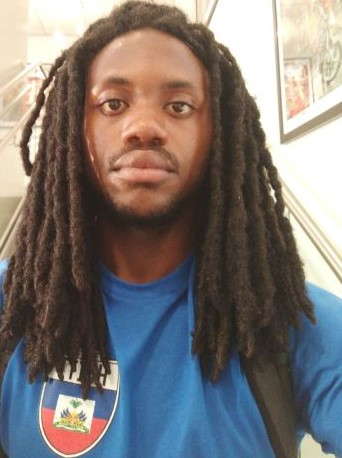
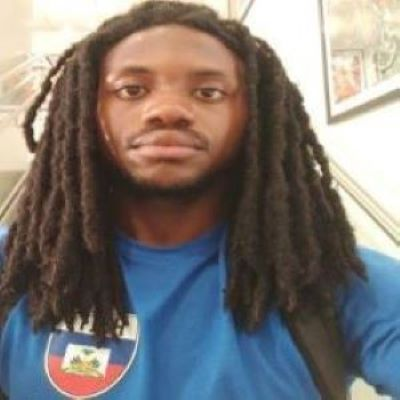
Updates

diff --git a/contact.html b/contact.html
@@ -4,77 +4,77 @@
         <meta charset="UTF-8" />
         <meta name="viewport" content="width=device-width, initial-scale=1.0" />
         <meta http-equiv="X-UA-Compatible" content="ie=edge" />
-        <script src="https://kit.fontawesome.com/323386b184.js" crossorigin="anonymous"></script>
+        <script
+            src="https://kit.fontawesome.com/323386b184.js"
+            crossorigin="anonymous"
+        ></script>
         <link rel="stylesheet" href="css/main.css" />
         <title>Contact Me</title>
     </head>
-    <body >
-        
-       <header>
-           <div class="menu-btn">
-               <div class="btn-line"></div>
-               <div class="btn-line"></div>
-               <div class="btn-line"></div>
-           </div>
-
-           <nav class="menu">
-               <div class="menu-branding">
-                <div class="portrait"></div>
-               </div>
-               <ul class="menu-nav">
-                <li class="nav-item ">
-                    <a href="index.html" class="nav-link">
-                        Home
-                    </a>
-                </li>
-                <li class="nav-item ">
-                    <a href="about.html" class="nav-link">
-                        About Me
-                    </a>
-                </li>
-                <li class="nav-item ">
-                    <a href="work.html" class="nav-link">
-                        My Work
-                    </a>
-                </li>
-                <li class="nav-item current">
-                    <a href="contact.html" class="nav-link">
-                        How to Reach Me
-                    </a>
-                </li>
-               </ul>
-           </nav>
-       </header>
-
-       <main id="contact">
-        <h1 class="lg-heading">
-            Contact <span class="text-secondary">Me</span>
-        </h1>
-        <h2 class="sm-heading">
-           This is how you can reach me
-        </h2>
-        <div class="boxes">
-            <div class="">
-                <span class="text-secondary">
-                    Email:
-                </span>
-                johnDoe@fiu.edu
+    <body>
+        <header>
+            <div class="menu-btn">
+                <div class="btn-line"></div>
+                <div class="btn-line"></div>
+                <div class="btn-line"></div>
             </div>
-            <div class="">
-                <span class="text-secondary">
-                    Phone:
-                </span>
-                (555) 555-5555
+
+            <nav class="menu">
+                <div class="menu-branding">
+                    <div class="portrait"></div>
+                </div>
+                <ul class="menu-nav">
+                    <li class="nav-item ">
+                        <a href="index.html" class="nav-link">
+                            Home
+                        </a>
+                    </li>
+                    <li class="nav-item ">
+                        <a href="about.html" class="nav-link">
+                            About Me
+                        </a>
+                    </li>
+                    <li class="nav-item ">
+                        <a href="work.html" class="nav-link">
+                            My Work
+                        </a>
+                    </li>
+                    <li class="nav-item current">
+                        <a href="contact.html" class="nav-link">
+                            How to Reach Me
+                        </a>
+                    </li>
+                </ul>
+            </nav>
+        </header>
+
+        <main id="contact">
+            <h1 class="lg-heading">
+                Contact <span class="text-secondary">Me</span>
+            </h1>
+            <h2 class="sm-heading">
+                This is how you can reach me
+            </h2>
+            <div class="boxes">
+                <div class="">
+                    <span class="text-secondary">
+                        Email:
+                    </span>
+                    fpaul012@fiu.edu
+                </div>
+                <div class="">
+                    <span class="text-secondary">
+                        Phone:
+                    </span>
+                    (786) 278-4077
+                </div>
             </div>
-            
-        </div>
-        
-       </main>
+        </main>
 
-       <footer id="main-footer">
-           Copyright &copy; 2020
-       </footer>
+        <footer id="main-footer">
+            Copyright &copy; 2020
+        </footer>
 
-       <script src="js/main.js"></script>
+        <script src="js/main.js"></script>
     </body>
 </html>

diff --git a/about.html b/about.html
@@ -52,59 +52,36 @@
             <h1 class="lg-heading">
                 About <span class="text-secondary">Me</span>
             </h1>
-            <h2 class="sm-heading">
-                Let me tell you a few things..
-            </h2>
+            <!-- <h2 class="sm-heading">
+                A few things to know
+            </h2> -->
             <div class="about-info">
                 <img
-                    src="img/portrait_menu.jpg"
-                    alt="John Doe Picture"
+                    src="img/portrait_small.jpg"
+                    alt="Frantz Paul Picture"
                     class="bio-image"
                 />
 
                 <div class="bio">
                     <h3 class="text-secondary">BIO</h3>
                     <p>
-                        Lorem ipsum dolor sit amet consectetur adipisicing elit.
-                        Debitis necessitatibus aperiam aliquid facere tempore a
-                        dolorum, molestiae in corrupti esse commodi pariatur
-                        tempora, mollitia sed porro qui quod. Voluptas, itaque.
+                        My parents immigrated to America from Haiti and raised
+                        me in Miami, Florida. I'm currently an undergrad student
+                        at Florida International University studying computer
+                        science. I'm also a 4+1 masters student at FIU. Once I
+                        graduate with my undergrad in Summer 2020, I will have
+                        an additional year to complete my masters.
                     </p>
                 </div>
 
                 <div class="job job-1">
-                    <h3>123 Webshop</h3>
-                    <h6>Full Stack Developer</h6>
+                    <h3>Panther TECH</h3>
+                    <h5>Sales Associate</h5>
+                    <h6>September 2017 - Present</h6>
                     <p>
-                        Lorem ipsum dolor sit, amet consectetur adipisicing
-                        elit. Quaerat quam nobis cumque. Ex praesentium amet
-                        minima placeat nemo quasi et possimus reiciendis
-                        voluptates. Odit tempore doloribus minus enim molestiae
-                        cumque?
-                    </p>
-                </div>
-
-                <div class="job job-2">
-                    <h3>Designers</h3>
-                    <h6>Web Designer</h6>
-                    <p>
-                        Lorem ipsum dolor sit, amet consectetur adipisicing
-                        elit. Quaerat quam nobis cumque. Ex praesentium amet
-                        minima placeat nemo quasi et possimus reiciendis
-                        voluptates. Odit tempore doloribus minus enim molestiae
-                        cumque?
-                    </p>
-                </div>
-
-                <div class="job job-3">
-                    <h3>Designer ABC</h3>
-                    <h6>Front End Intern</h6>
-                    <p>
-                        Lorem ipsum dolor sit, amet consectetur adipisicing
-                        elit. Quaerat quam nobis cumque. Ex praesentium amet
-                        minima placeat nemo quasi et possimus reiciendis
-                        voluptates. Odit tempore doloribus minus enim molestiae
-                        cumque?
+                        Computer electronics store located on FIU campus. Sold
+                        computers, tablets, software, and aided customers with
+                        minimal computer related problems.
                     </p>
                 </div>
             </div>

diff --git a/index.html b/index.html
@@ -9,7 +9,7 @@
             crossorigin="anonymous"
         ></script>
         <link rel="stylesheet" href="css/main.css" />
-        <title>Welcome To My Portfolio</title>
+        <title>Welcome To My Website</title>
     </head>
     <body id="bg-img">
         <header>
@@ -53,7 +53,8 @@
                 Frantz <span class="text-secondary">Paul</span>
             </h1>
             <h2 class="sm-heading">
-                Computer Science student at Florida International University
+                Computer Science student at Florida International University by
+                night. NBA fan/ battle rap junkie/ procrastinator by day.
             </h2>
             <div class="icons">
                 <a href="https://www.linkedin.com/in/frantz-paul-b56a08103/">

diff --git a/css/main.css b/css/main.css
@@ -53,11 +53,11 @@
     .menu-branding.show {
       transform: translate3d(0, 0, 0); }
     .menu-branding .portrait {
-      width: 350px;
+      width: 400px;
       height: 400px;
       background: url("../img/portrait_menu.jpg");
       border-radius: 50%;
-      border: solid 3px #eece1a; }
+      border: solid 5px #eece1a; }
   .menu .nav-item {
     transform: translate3d(600px, 0, 0);
     transition: all 1.0s ease-out; }

diff --git a/js/main.js b/js/main.js
@@ -29,7 +29,7 @@ function toggleMenu() {
         showMenu = true
     } else {
         // If menu is closed
-        // adding close class
+        // removing close class
         menuBtn.classList.remove('close')
 
         menu.classList.remove('show')
